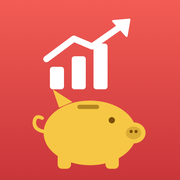
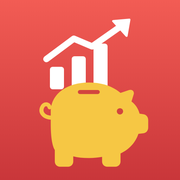
결산 분류 누르면 그 달 상세(연필 = 예산 수정), 상세 화면도 밀어서 달 넘기기, 자동 새로고침 때 입력값 유지, 새 아이콘, 안내 문구 정리
Claude-Session: https://claude.ai/code/session_01DTTZzxS6CFyfHm253qb7YQ

Changed region(s): [[0.1667, 0.4444, 0.8333, 0.9444], [0.3889, 0.8611, 0.5833, 0.9444], [0.5833, 0.6389, 0.6389, 0.6944]]

diff --git a/hh.js b/hh.js
@@ -315,7 +315,10 @@
   }
   // 가계부·통계 화면을 좌우로 밀면 이전·다음 달: 손가락을 따라 화면이 움직이고, 놓으면 부드럽게 넘어감
   (() => {
-    let x0 = 0, y0 = 0, t0 = 0, dx = 0, dir = null, v = null, busy = false;
+    let x0 = 0, y0 = 0, t0 = 0, dx = 0, dir = null, v = null, busy = false, pageNav = null;
+    // 열린 화면(분류 상세·자산 상세 등)에 ‹ › 달 버튼이 있으면 그 화면에서도 밀어서 넘김
+    const NAV = '[data-am], [data-mw]';
+    const pageArrow = (pg, k) => [...pg.querySelectorAll(NAV)].find(b => Number(b.dataset.am || b.dataset.mw) === k && !b.disabled);
     const skip = '.cm-chips, .hh-tabs, .seg, input, textarea, select, .hh-scroll-x, [data-noswipe]';
     const EASE = 'cubic-bezier(.22,.8,.24,1)';
     const set = (el, x, op, tr) => { el.style.transition = tr || 'none'; el.style.transform = x ? `translate3d(${x}px,0,0)` : ''; el.style.opacity = op === 1 ? '' : String(op); };
@@ -324,10 +327,17 @@
       v = null; dir = null; dx = 0;
       if (busy || e.touches.length !== 1) return;
       // 내용이 짧은 달(빈 메모 등)도 넘기도록: 화면 아래 빈 곳에서 밀어도 지금 보이는 화면을 움직임
-      if (!H.active || (H.view !== 'book' && H.view !== 'stats') || !e.target.closest || e.target.closest('#hhHead, .tabbar, #hhFab, #hhLayer, #sheet, .topbar')) return;
+      if (!H.active || !e.target.closest) return;
+      const top = [...stack].reverse().find(x => x.pg);
+      if (top) {
+        if ($('#sheet.open') || !e.target.closest('.hh-pbody') || e.target.closest(skip) || e.target.closest('.hf, .hf-picker') || !top.pg.querySelector(NAV)) return;
+        pageNav = top.pg; v = $('.hh-pbody', top.pg); x0 = e.touches[0].clientX; y0 = e.touches[0].clientY; t0 = Date.now();
+        return;
+      }
+      if ((H.view !== 'book' && H.view !== 'stats') || e.target.closest('#hhHead, .tabbar, #hhFab, #hhLayer, #sheet, .topbar')) return;
       const el = H.view === 'book' ? $('#hh-book') : $('#hh-stats');
       if (!el || el.hidden || e.target.closest(skip) || !$('#hhHead .hh-arrow') || stack.some(x => x.pg) || $('#sheet.open')) return;
-      v = el; x0 = e.touches[0].clientX; y0 = e.touches[0].clientY; t0 = Date.now();
+      pageNav = null; v = el; x0 = e.touches[0].clientX; y0 = e.touches[0].clientY; t0 = Date.now();
     }, { passive: true });
     document.addEventListener('touchmove', e => {
       if (!v) return;
@@ -342,11 +352,12 @@
       if (!v || dir !== 'h') { v = null; return; }
       const el = v, w = el.clientWidth || 360, speed = Math.abs(dx) / Math.max(1, Date.now() - t0);
       if (Math.abs(dx) < w * 0.22 && !(speed > 0.45 && Math.abs(dx) > 40)) { set(el, 0, 1, `transform .28s ${EASE}, opacity .28s ${EASE}`); setTimeout(() => clear(el), 300); v = null; return; }
-      const k = dx < 0 ? 1 : -1;
+      const k = dx < 0 ? 1 : -1, pgN = pageNav, arrow = pgN && pageArrow(pgN, k);
+      if (pgN && !arrow) { set(el, 0, 1, `transform .28s ${EASE}, opacity .28s ${EASE}`); setTimeout(() => clear(el), 300); v = null; return; }   // 더 갈 달이 없음
       busy = true;
       set(el, -k * w * 0.6, 0, 'transform .16s ease-in, opacity .16s ease-in');   // 지금 달은 미는 쪽으로 빠지고
       setTimeout(() => {
-        moveHead(k);
+        if (arrow) arrow.click(); else moveHead(k);
         set(el, k * w * 0.35, 0);                                                      // 새 달은 반대쪽에서
         void el.offsetWidth;
         set(el, 0, 1, `transform .3s ${EASE}, opacity .26s ease-out`);               // 부드럽게 들어옴
@@ -395,6 +406,13 @@
     $$('#hh-book [data-bt]').forEach(b => b.onclick = () => { H.btab = b.dataset.bt; sess.set('dh_hbtab', H.btab); $('#hhFab').hidden = H.btab === 'habit'; window.scrollTo({ top: 0 }); render(); });
     bindRows($('#hh-book'));
     if (H.btab === 'close') {
+      // 분류를 누르면 그 달 상세 내역 (꺾쇠는 소분류 펼치기·접기)
+      $$('#hh-book [data-bopen]').forEach(r => r.addEventListener('click', ev => {
+        if (ev.target.closest('[data-btog]')) return;
+        ev.stopImmediatePropagation();
+        const ym = H.ym;
+        openCatDetail('지출', r.dataset.bopen, `${ym}-01`, `${ym}-${pad(daysIn(ym))}`, { sel: r.dataset.bsub || null, budget: true });
+      }, true));
       $$('#hh-book [data-bcat]').forEach(r => r.onclick = () => {
         const k = r.dataset.bcat;
         if (k.startsWith('__all__|')) {
@@ -516,13 +534,14 @@
     const own = baseOf(c.name, '');
     return own > 0 ? own : c.subs.reduce((a, s) => a + baseOf(c.name, s), 0);
   }
-  function budRow(name, b, spent, { kind = 'cat', marker = null, toggle = null, open = true } = {}) {
+  function budRow(name, b, spent, { kind = 'cat', marker = null, toggle = null, open = true, cat = null, sub = '' } = {}) {
     const pct = b > 0 ? spent / b : Infinity, over = spent > b, rem = b - spent;
     const pTxt = !Number.isFinite(pct) || pct > 9.99 ? '-' : `${Math.floor(pct * 100)}%`;
     const fill = Math.min(100, (Number.isFinite(pct) ? pct : 1) * 100);
     const tg = toggle ? `data-bcat="${esc(toggle)}" role="button" tabindex="0" aria-expanded="${open}"` : '';
-    return `<div class="bud ${kind}" ${tg}>
-      <div class="bud-l"><span class="bud-n"><span>${esc(name)}</span>${toggle ? `<i class="bud-chev ${open ? 'open' : ''}">${ico.chev}</i>` : ''}</span><b class="num">${won(b)}</b></div>
+    const op = cat ? `data-bopen="${esc(cat)}" data-bsub="${esc(sub)}"` : '';
+    return `<div class="bud ${kind}" ${tg} ${op}>
+      <div class="bud-l"><span class="bud-n"><span>${esc(name)}</span>${toggle ? `<i class="bud-chev ${open ? 'open' : ''}" data-btog="1">${ico.chev}</i>` : ''}</span><b class="num">${won(b)}</b></div>
       <div class="bud-r">
         <div class="bud-bar ${over ? 'over' : ''}"><i style="width:${fill.toFixed(1)}%"></i>${marker !== null ? `<s style="left:${(marker * 100).toFixed(1)}%"></s>${kind === 'top' ? `<span class="bud-today" style="left:${(marker * 100).toFixed(1)}%">오늘</span>` : ''}` : ''}<em class="num ${fill >= 96 ? 'in' : ''}">${pTxt}</em></div>
         <div class="bud-v num"><span class="${over ? 'exp' : 'inc'}">${won(spent)}</span><span>${rem < 0 ? `초과 −${fmt(-rem)}원` : won(rem)}</span></div>
@@ -546,8 +565,8 @@
       const subs = c.subs.filter(s => budgetOf(c.name, s, ym) > 0);
       const open = !H.budClosed.has(c.name);
       if (subs.length) togg.push(c.name);
-      rows.push(budRow(c.name, b, byCat.get(c.name) || 0, { kind: 'cat', marker, toggle: subs.length ? c.name : null, open }));
-      if (subs.length && open) subs.forEach(s => rows.push(budRow(s, budgetOf(c.name, s, ym), bySub.get(BK(c.name, s)) || 0, { kind: 'sub', marker })));
+      rows.push(budRow(c.name, b, byCat.get(c.name) || 0, { kind: 'cat', marker, toggle: subs.length ? c.name : null, open, cat: c.name }));
+      if (subs.length && open) subs.forEach(s => rows.push(budRow(s, budgetOf(c.name, s, ym), bySub.get(BK(c.name, s)) || 0, { kind: 'sub', marker, cat: c.name, sub: s })));
     });
     const budget = rows.length
       ? budRow('전체예산', tb, total, { kind: 'top', marker, toggle: togg.length ? `__all__|${togg.join('|')}` : null, open: togg.length > 0 && togg.every(n => !H.budClosed.has(n)) }) + rows.join('')
@@ -822,8 +841,8 @@
     if (from.endsWith('-01-01') && to.endsWith('-12-31') && from.slice(0, 4) === to.slice(0, 4)) return `${from.slice(0, 4)}년`;
     return `${from.slice(2).replace(/-/g, '.')} ~ ${to.slice(2).replace(/-/g, '.')}`;
   }
-  function openCatDetail(type, cat, from, to) {
-    let winEnd = to.slice(0, 7), sel = null;
+  function openCatDetail(type, cat, from, to, opts = {}) {
+    let winEnd = to.slice(0, 7), sel = opts.sel || null;
     const subOf = t => t.sub || '(소분류 없음)';
     const build = () => {
       const all = inRange(from, to).filter(t => t.type === type && (t.cat || '미분류') === cat);
@@ -868,7 +887,10 @@
         const y = window.scrollY; $('.hh-pbody', pg).innerHTML = build(); bindRows(pg); bindBars(pg);
       });
     };
-    pushPage({ title: esc(cat), body: build(), refresh: pg => { $('.hh-pbody', pg).innerHTML = build(); bindRows(pg); bindBars(pg); }, onMount: pg => { bindRows(pg); bindBars(pg); } });
+    const cObj = (H.cats[type] || []).find(c => c.name === cat);
+    const pen = opts.budget && cObj ? `<button class="icon-btn" id="cdBud" aria-label="예산 수정">${ico.pen}</button>` : '';
+    pushPage({ title: esc(cat), actions: pen, body: build(), refresh: pg => { $('.hh-pbody', pg).innerHTML = build(); bindRows(pg); bindBars(pg); },
+      onMount: pg => { bindRows(pg); bindBars(pg); const b = $('#cdBud', pg); if (b) b.onclick = () => openBudgetEdit(cObj, sel && cObj.subs.includes(sel) ? sel : ''); } });
   }
   function monthBars(months, vals, color, hi, tap = false) {
     const W = 336, Hh = 120, bw = W / months.length, mx = Math.max(...vals, 1);
@@ -1162,7 +1184,7 @@
         <button class="hmo-row" data-go="reload"><span>새로고침 <small class="hmo-sub">(가계부 새로 불러오기)</small></span>${ico.chev}</button>
         <button class="hmo-row" data-go="inv"><span>투자 화면으로</span>${ico.chev}</button>
       </div>
-      <p class="note hmo-note">가계부는 구글 시트에 저장되어 두 사람 휴대폰에 바로 같이 보입니다.<br>
+      <p class="note hmo-note">
       시트에서 직접 고친 뒤 새로고침하면 앱에 반영됩니다.<br>
       예전 상태로 되돌리기: 구글 시트 → 버전 기록<br>
       매월 반복 내역은 그 날짜가 지난 뒤 앱을 열 때 자동으로 들어갑니다.</p>`;

diff --git a/app.js b/app.js
@@ -74,6 +74,16 @@
   let pendingScroll = null;
   let spinN = 0;
   function spin(on) { spinN = Math.max(0, spinN + (on ? 1 : -1)); $('.topbar').classList.toggle('loading', spinN > 0); }
+  function keepTyped() {
+    const root = $('#view-record');
+    if (!root || root.hidden) return () => {};
+    const vals = $$('input, textarea, select', root).filter(i => i.id && i.type !== 'button').map(i => [i.id, i.value]);
+    const act = document.activeElement && root.contains(document.activeElement) ? document.activeElement.id : '';
+    return () => {
+      vals.forEach(([id, v]) => { const i = document.getElementById(id); if (i && root.contains(i) && i.value !== v && v !== '') { i.value = v; i.dispatchEvent(new Event('input', { bubbles: true })); } });
+      const a = act && document.getElementById(act); if (a) { try { a.focus({ preventScroll: true }); const n = a.value.length; a.setSelectionRange && a.type === 'text' && a.setSelectionRange(n, n); } catch { /* */ } }
+    };
+  }
   async function load({ quiet = false } = {}) {
     const btn = $('#refreshBtn');
     btn.classList.add('spin'); spin(true);
@@ -82,7 +92,9 @@
       state.data = prepare(j.data); state.loadedAt = Date.now();
       store.set(LS.cache, JSON.stringify(j.data));
       if (state.app === 'hh') { pendingScroll = null; render(); if (window.HH) window.HH.invUpdated(); return; }
-      const y = pendingScroll ?? window.scrollY; pendingScroll = null; render(); requestAnimationFrame(() => window.scrollTo({ top: y }));
+      // 기록 화면에서 입력 중이면 새로 받은 자료로 다시 그려도 적던 값은 그대로 (자동 새로고침 때 숫자가 사라지던 문제)
+      const typed = keepTyped();
+      const y = pendingScroll ?? window.scrollY; pendingScroll = null; render(); typed(); requestAnimationFrame(() => window.scrollTo({ top: y }));
       if (!quiet) toast('최신 데이터로 갱신했습니다');
     } catch (e) {
       if (e.code === 'auth') { logout('비밀번호가 바뀌었거나 틀렸습니다. 다시 입력하십시오.'); return; }

diff --git a/index.html b/index.html
@@ -13,16 +13,16 @@
 <meta name="apple-mobile-web-app-status-bar-style" content="default">
 <meta name="apple-mobile-web-app-title" content="Dalton House">
 <link rel="manifest" href="manifest.webmanifest">
-<link rel="icon" type="image/png" sizes="192x192" href="icons/icon-192.png?v=4">
-<link rel="apple-touch-icon" href="icons/apple-touch-icon.png?v=4">
+<link rel="icon" type="image/png" sizes="192x192" href="icons/icon-192.png?v=5">
+<link rel="apple-touch-icon" href="icons/apple-touch-icon.png?v=5">
 <link rel="stylesheet" href="https://cdn.jsdelivr.net/gh/orioncactus/pretendard@v1.3.9/dist/web/variable/pretendardvariable-dynamic-subset.min.css">
-<link rel="stylesheet" href="app.css?v=107">
+<link rel="stylesheet" href="app.css?v=108">
 </head>
 <body>
 
 <div id="login" class="login" hidden>
   <form id="loginForm" class="login-card" autocomplete="on">
-    <img src="icons/icon-192.png?v=4" alt="" class="login-icon" width="64" height="64">
+    <img src="icons/icon-192.png?v=5" alt="" class="login-icon" width="64" height="64">
     <h1>Dalton House</h1>
     <p class="login-sub">우리 집 투자 현황</p>
     <div class="field">
@@ -44,7 +44,7 @@
 <div id="app" class="app" hidden>
   <header class="topbar">
     <div class="brand">
-      <img src="icons/icon-192.png?v=4" alt="" width="30" height="30">
+      <img src="icons/icon-192.png?v=5" alt="" width="30" height="30">
       <div class="brand-text">
         <div class="brand-name">Dalton House</div>
         <span id="updated" class="updated"></span>
@@ -141,7 +141,7 @@
 <div id="toast" class="toast" role="status" aria-live="polite"></div>
 
 <script src="config.js?v=1"></script>
-<script src="app.js?v=84"></script>
-<script src="hh.js?v=65"></script>
+<script src="app.js?v=85"></script>
+<script src="hh.js?v=66"></script>
 </body>
 </html>

diff --git a/app.css b/app.css
@@ -1553,7 +1553,7 @@ button.ad-it:active { background: var(--fill); }
 .ad-it em { margin-left: auto; text-align: right; }
 
 /* 좌우 밀어서 달 넘기기: 세로 스크롤은 브라우저가, 가로는 앱이 처리 */
-#hh-book, #hh-stats { touch-action: pan-y; backface-visibility: hidden; }
+#hh-book, #hh-stats, .hh-pbody { touch-action: pan-y; backface-visibility: hidden; }
 body { overflow-x: clip; }
 
 /* ── 운동 공약 ── */
@@ -1637,3 +1637,5 @@ button.cm-sr:active { background: var(--fill); }
 /* 단가 통화 바꾸기 (달러 ⇄ 원) */
 .pcur-btn { border: 1px solid var(--line); background: var(--fill); color: var(--ink-2); border-radius: 8px; font: inherit; font-size: 13px; font-weight: 700; padding: 3px 8px; margin-left: 4px; cursor: pointer; }
 .hf-v .pcur-btn { font-size: 14px; padding: 4px 9px; }
+
+.bud[data-bopen] { cursor: pointer; } .bud[data-bopen]:active { background: var(--fill); }

diff --git a/sw.js b/sw.js
@@ -1,5 +1,5 @@
 // 앱 화면 파일만 저장 (자산 데이터는 저장하지 않음)
-const CACHE = 'dalton-house-v151';
+const CACHE = 'dalton-house-v152';
 const SHELL = ['./', 'index.html', 'app.css?v=51', 'app.js?v=57', 'hh.js?v=4', 'config.js?v=1', 'manifest.webmanifest',
   'icons/icon-192.png', 'icons/icon-512.png', 'icons/apple-touch-icon.png'];
 
